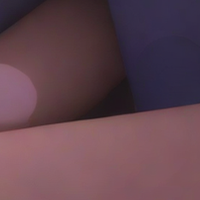
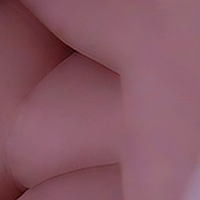
denoising stuff

diff --git a/main.py b/main.py
@@ -51,6 +51,9 @@ class ZoomApp:
         self.tk_img = ImageTk.PhotoImage(self.current_img)
         self.image_on_canvas = self.canvas.create_image(0, 0, anchor=tk.NW, image=self.tk_img)
 
+        self.denoise_set_point = 0.35
+        self.current_denoise = 0.35
+
         if self.use_eye_tracking:
             self.start_eye_tracking()
         else:
@@ -173,7 +176,7 @@ class ZoomApp:
                 # time.sleep(1)  # Wait for 1 second before retrying    
                 time.sleep(.01)    
         #time.sleep(.3)           
-        image_gen_new.create_img("high definition, high resolution, matrix, amazing", "/home/lunkwill/projects/tobii/pre_comfy_image.png", "/home/lunkwill/projects/tobii/pre_comfy_clip_image.png") #prompt currently turned off in image_gen_new.py
+        image_gen_new.create_img("high definition, high resolution, matrix, amazing", "/home/lunkwill/projects/tobii/pre_comfy_image.png", "/home/lunkwill/projects/tobii/pre_comfy_clip_image.png", self.current_denoise) #prompt currently turned off in image_gen_new.py
 
     def fade_between_images(self, old_image, new_image, steps=1, transition_time=0.01):
         """Fade from the current image to a new image."""
@@ -200,6 +203,13 @@ class ZoomApp:
             self.canvas.itemconfig(self.image_on_canvas, image=self.tk_img)
             self.canvas.update_idletasks()  # Update canvas
             time.sleep(transition_time / steps)
+
+    def check_if_image_file(self):
+        dir = '/home/lunkwill/projects/ComfyUI/output/my_output/'
+        if os.path.exists(dir):
+            files = os.listdir(dir)
+            if len(files)>0:
+                return True
 
     def update_image(self):
         left, top, right, bottom = 0, 0, 0, 0
@@ -265,6 +275,7 @@ class ZoomApp:
 
         if not self.image_generating and self.shared_state.directory_state == "empty":
             future = self.executor.submit(self.generate_image, avg_x, avg_y)
+            self.current_denoise = (self.current_denoise + self.denoise_set_point) / 2
 
         self.old_image = self.current_img
         
@@ -289,8 +300,15 @@ class ZoomApp:
         process = subprocess.Popen(subprocess_path, shell=True, stdout=slave, stderr=subprocess.PIPE, text=True, bufsize=1)
         os.close(slave)
 
-        threading.Thread(target=self.read_subprocess_output_and_update_gui, args=(master, screen_width, screen_height), daemon=True).start()
+        last_eye_data_time = SharedState()        
+
+
+        #threading.Thread(target=self.watch_last_eye_data_time, args=(master, last_eye_data_time), daemon=True).start()
+
+        threading.Thread(target=self.read_subprocess_output_and_update_gui, args=(master, screen_width, screen_height, last_eye_data_time), daemon=True).start()
         self.master.bind('<Configure>', lambda event: self.get_window_position())
+
+        
 
     # def read_subprocess_output_and_update_gui(self, master_fd, screen_width, screen_height):
     #     global win_x, win_y
@@ -309,19 +327,34 @@ class ZoomApp:
     #             self.position_smoothing.append((image_x, image_y))
     #             self.master.after(0, self.update_image)
 
-    def read_subprocess_output_and_update_gui(self, master_fd, screen_width, screen_height):
+    def watch_last_eye_data_time(self, master_fd, last_eye_data_time):
+        while True:
+            if time.time() - last_eye_data_time.last_eye_data_time > 2:
+                print("No eye data for more than 1 second")
+                self.current_denoise = (1+self.denoise_set_point)/2
+                #make a beep sound
+                sound = 'paplay /usr/share/sounds/freedesktop/stereo/complete.oga'
+                os.system(sound)
+                # Reset the position smoothing
+                # self.position_smoothing = deque(maxlen=9)
+                # self.master.after(0, self.update_image)
+                time.sleep(1)
+
+    def read_subprocess_output_and_update_gui(self, master_fd, screen_width, screen_height, last_eye_data_time):
         global win_x, win_y
         last_time = time.time()  # Initialize the time of the last data point
         timeout = 2.0  # Set the timeout to 1 second (or whatever value you want)
 
         with os.fdopen(master_fd, 'r') as stdout:
             for line in iter(stdout.readline, ''):
+                last_eye_data_time.last_eye_data_time = time.time()
                 current_time = time.time()  # Get the current time
                 if current_time - last_time > timeout:
+                    self.current_denoise = (1+self.denoise_set_point)/2
                     #make a beep sound
-                    sound = 'paplay /usr/share/sounds/freedesktop/stereo/complete.oga'
-                    os.system(sound)
-                    print("Timeout: More than {} seconds since the last data point".format(timeout))
+                    # sound = 'paplay /usr/share/sounds/freedesktop/stereo/complete.oga'
+                    # os.system(sound)
+                    print("Original Timeout: More than {} seconds since the last data point".format(timeout))
 
                 last_time = current_time  # Update the time of the last data point
 
@@ -346,6 +379,7 @@ class ZoomApp:
 class SharedState:
     def __init__(self):
         self.directory_state = "empty"
+        self.last_eye_data_time = 0
 
 class CropHelper:
     def __init__(self):

diff --git a/image_gen_new.py b/image_gen_new.py
@@ -14,7 +14,7 @@ def queue_prompt(prompt_workflow):
     except Exception as e:
         print(f"Failed to send request: {e}")
 
-def create_img(prompt, img_path, img_path_clip):
+def create_img(prompt, img_path, img_path_clip, current_denoise):
 
     # read workflow api data from file and convert it into dictionary 
     # assign to var prompt_workflow
@@ -34,12 +34,16 @@ def create_img(prompt, img_path, img_path_clip):
 
     clip_input_image_file = prompt_workflow["69"]
 
+    denoise_node = prompt_workflow["20"]
+
     filepaths = []
     # for every prompt in prompt_list...
     for index, prompt in enumerate(prompt_list):
 
         # set the text prompt for positive CLIPTextEncode node
         #prompt_pos_node["inputs"]["text"] = prompt
+
+        denoise_node["inputs"]["denoise"] = current_denoise
 
         input_image_file["inputs"]["image"] = img_path
 
